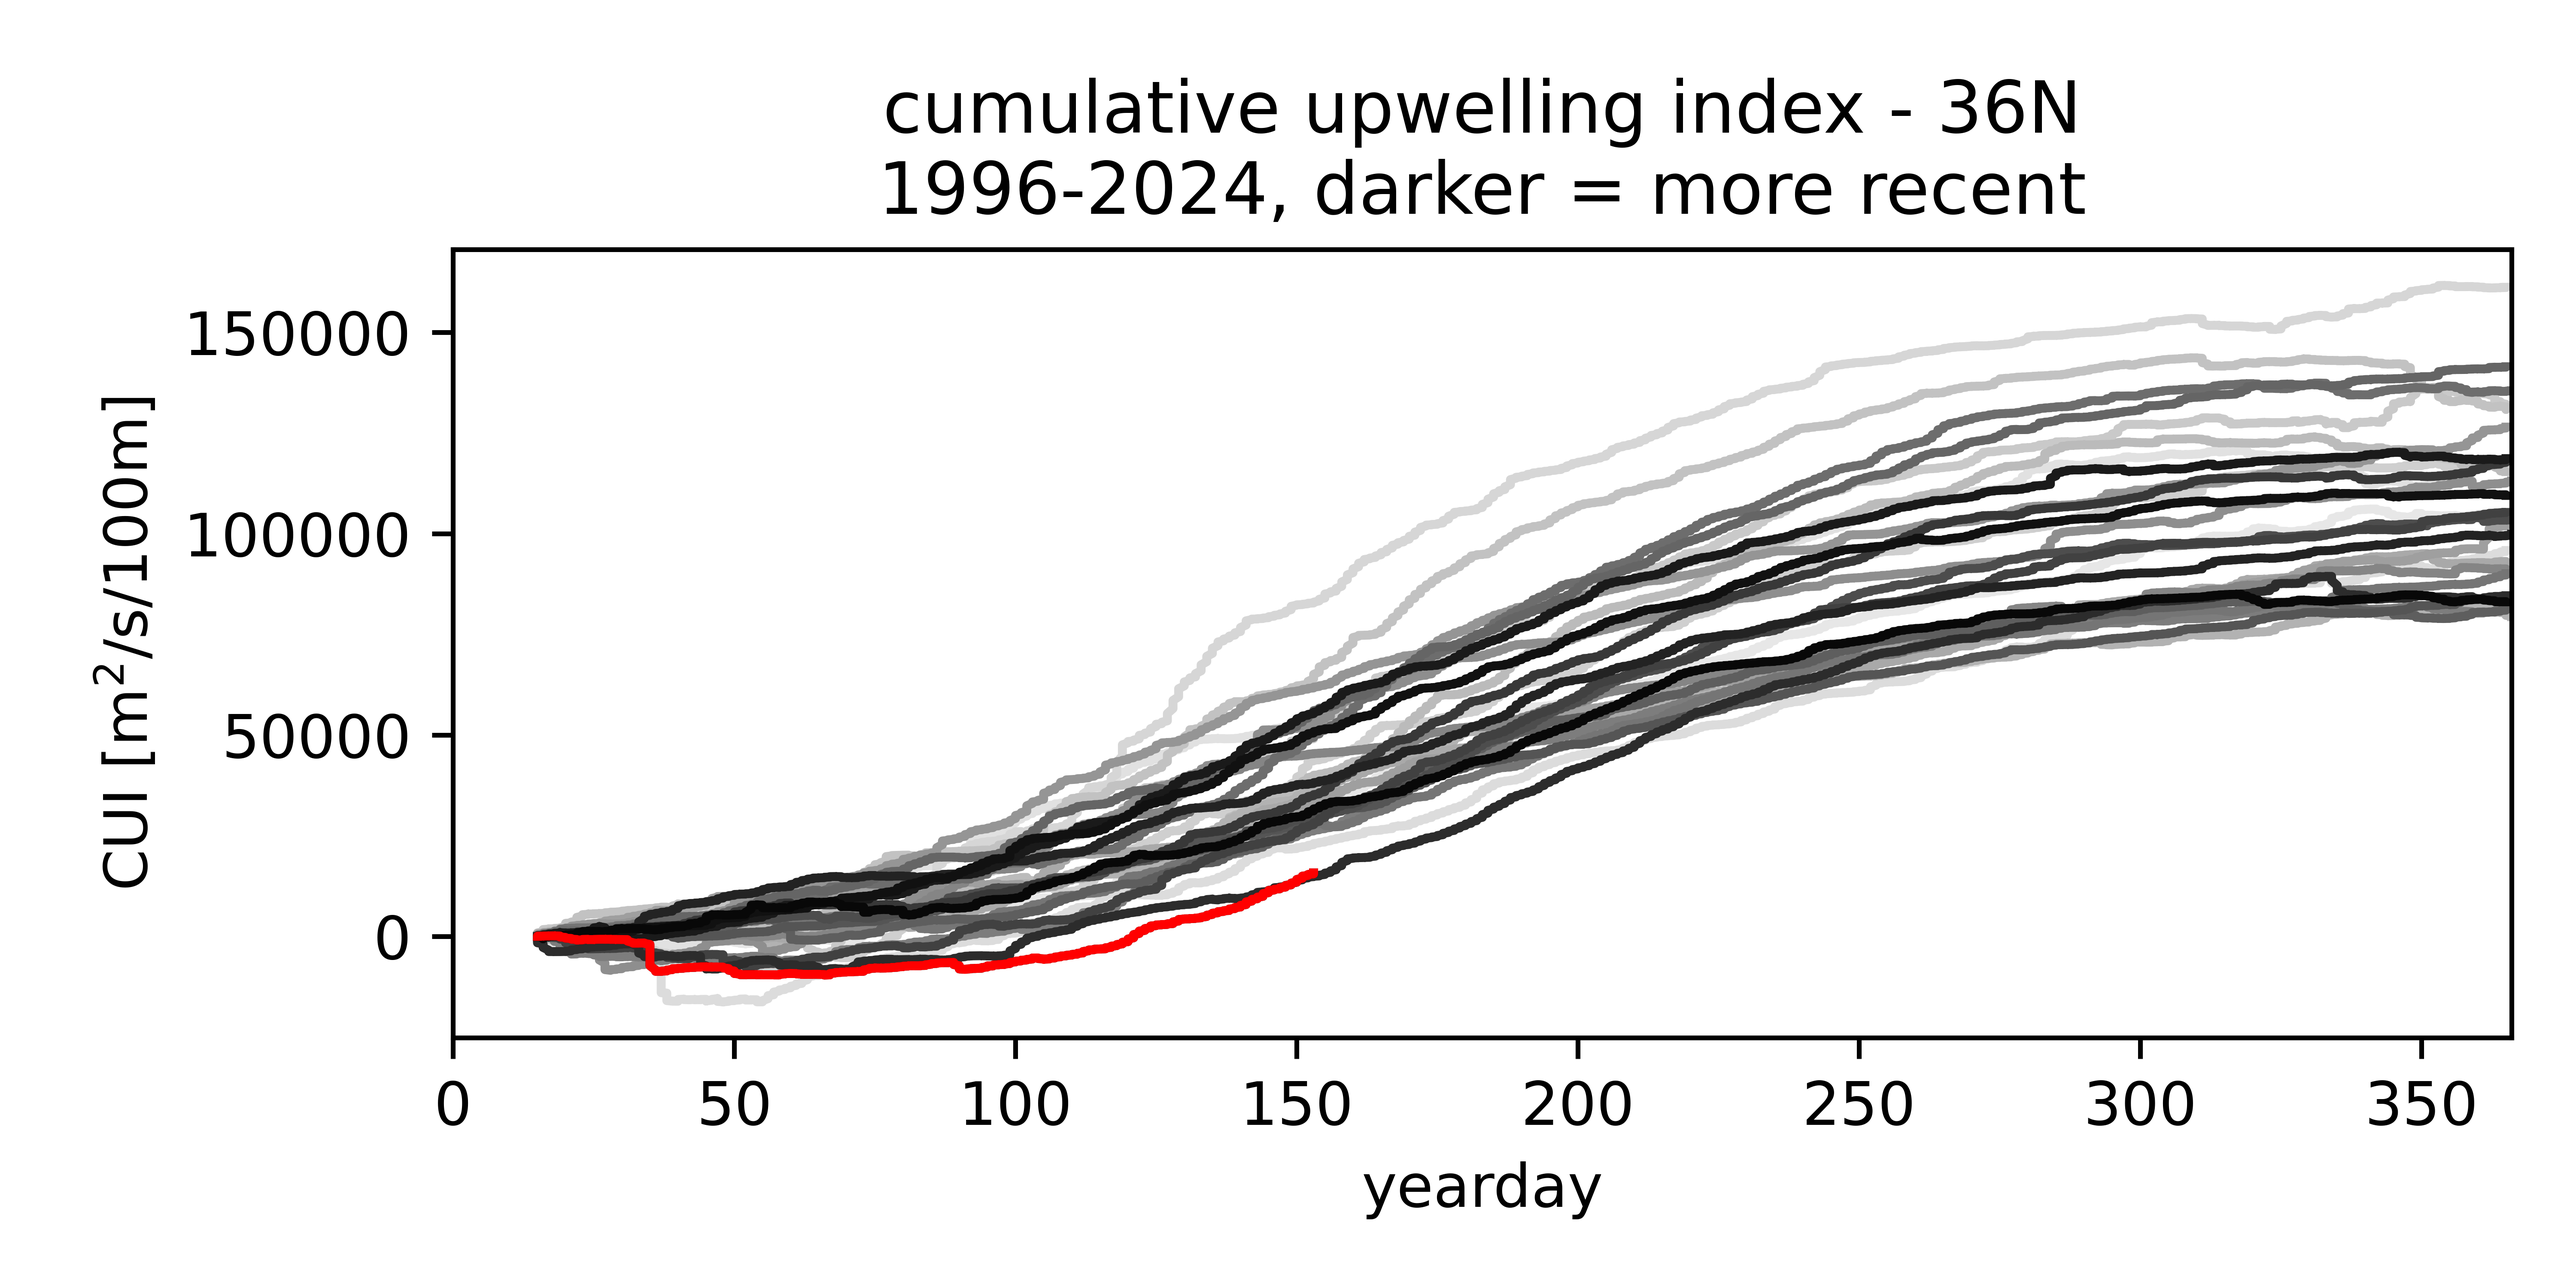
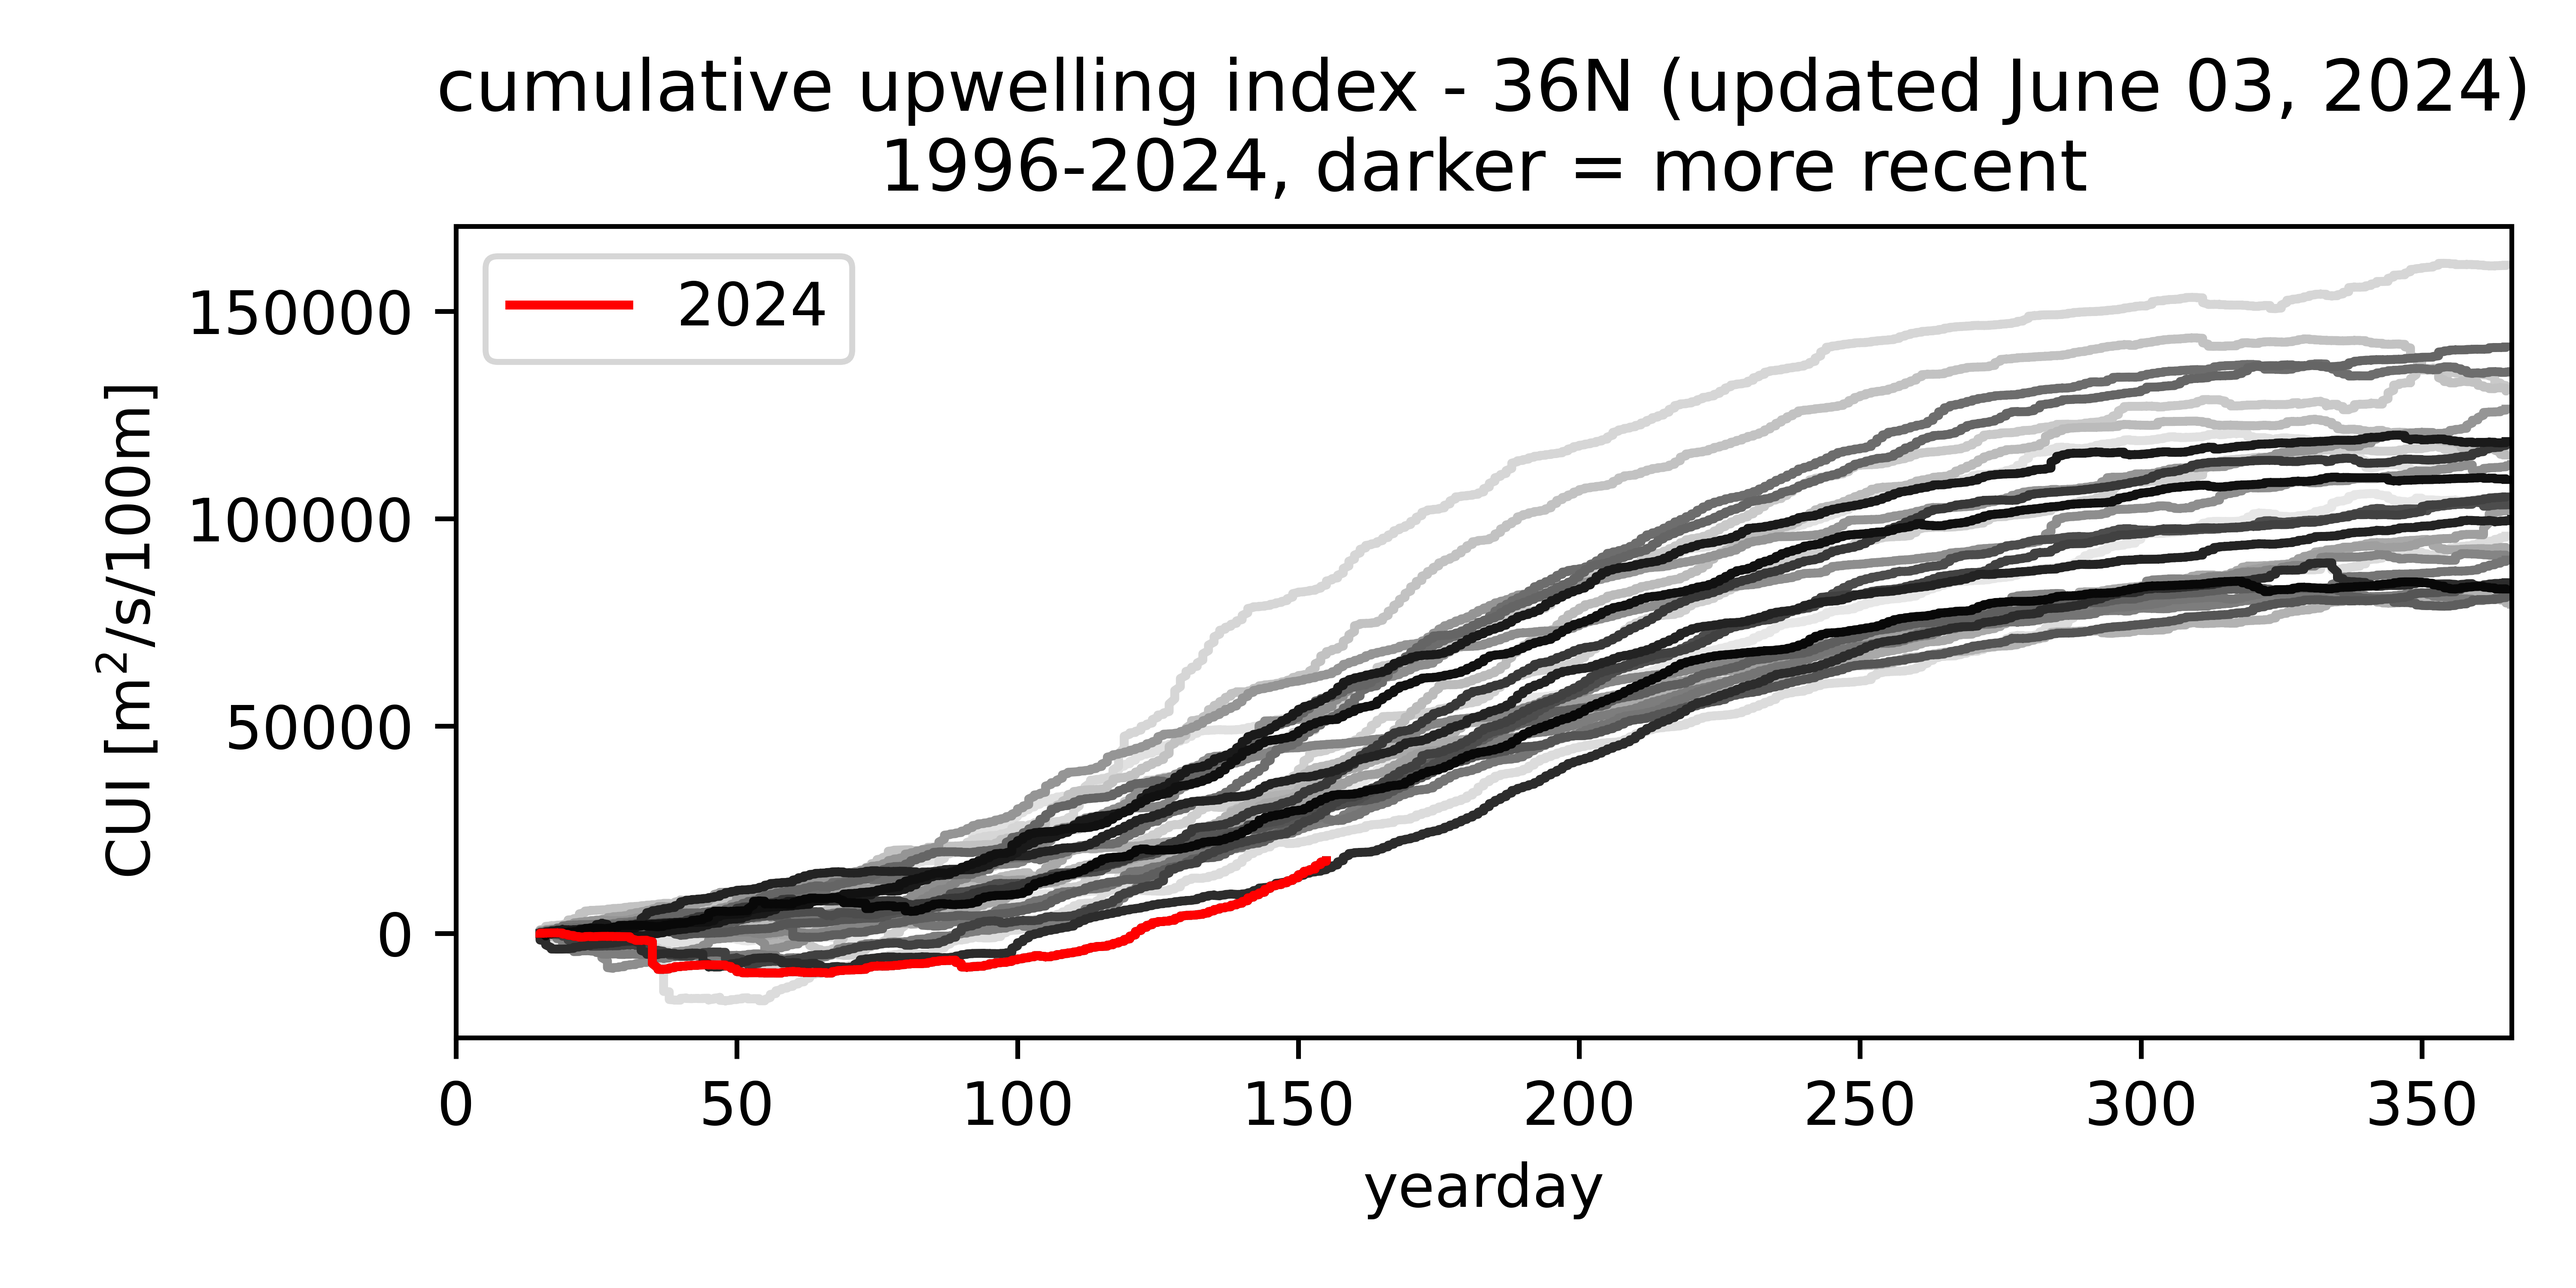
edits to cui scripts

diff --git a/scripts/auto_update_cui/update_cui_plot.py b/scripts/auto_update_cui/update_cui_plot.py
@@ -24,7 +24,7 @@ nlines = len(flines)
 dfr1 = pd.read_csv(recent_csv_file, skiprows=nskip1, delim_whitespace=True, 
                   skipinitialspace=True, names=['date', 'time', '/', 'count', 'upwelling_index'],
                   parse_dates=[[0,1]], date_parser=lambda x: pd.to_datetime(x, utc=True),
-                  skipfooter = nlines-headeri[-1])
+                  skipfooter = nlines-headeri[-1], engine='python')
 
 dfr1 = dfr1.rename(columns={'date_time':'time'})
 dfr1 = dfr1.drop(columns = ['/', 'count'])
@@ -80,9 +80,11 @@ for i, year in enumerate(allyears):
     plt.xlim([0,366])
 
 plt.plot(dfp['yearday'], dfp['cui'], '-', color='r', label=str(year))
+plt.legend()
 plt.xlabel('yearday')
 plt.ylabel('CUI [m$^2$/s/100m]')
-plt.title('cumulative upwelling index - 36N\n'+
+nowstr = pd.Timestamp.now().strftime('%B %d, %Y')
+plt.title('cumulative upwelling index - 36N (updated ' + nowstr + ')\n'+
             str(allyears[0])+'-'+str(allyears[-1])+', darker = more recent')
 plt.tight_layout()
 plt.savefig(prefix+'figures/cui_36N_updated.png', dpi=1000)

diff --git a/scripts/auto_update_cui/retrieve_data.py b/scripts/auto_update_cui/retrieve_data.py
@@ -6,7 +6,10 @@ url = "https://oceanwatch.pfeg.noaa.gov/products/current_gifs/upwell_122W_36N.tx
 file_path = 'scripts/auto_update_cui/data/upwell_122W_36N.txt'
 urllib.request.urlretrieve(url, file_path)
 
-# # historical csv from ERDDAP
-# hist_url = 'https://coastwatch.pfeg.noaa.gov/erddap/tabledap/erdUI366hr.csv?time%2Cupwelling_index%2Cstation_id%2Clatitude%2Clongitude&time%3E=1996-01-01T00%3A00%3A00Z'
-# hist_file_path = 'scripts/auto_update_cui/data/UpwellingIndex_36N_historical_1996-present.csv'
-# urllib.request.urlretrieve(hist_url, hist_file_path)
+# historical csv from ERDDAP
+try:
+    hist_url = 'https://coastwatch.pfeg.noaa.gov/erddap/tabledap/erdUI366hr.csv?time%2Cupwelling_index%2Cstation_id%2Clatitude%2Clongitude&time%3E=1996-01-01T00%3A00%3A00Z'
+    hist_file_path = 'scripts/auto_update_cui/data/UpwellingIndex_36N_historical_1996-present.csv'
+    urllib.request.urlretrieve(hist_url, hist_file_path)
+except:
+    print('*** could not download historical CUI data from ERDDAP ***')
